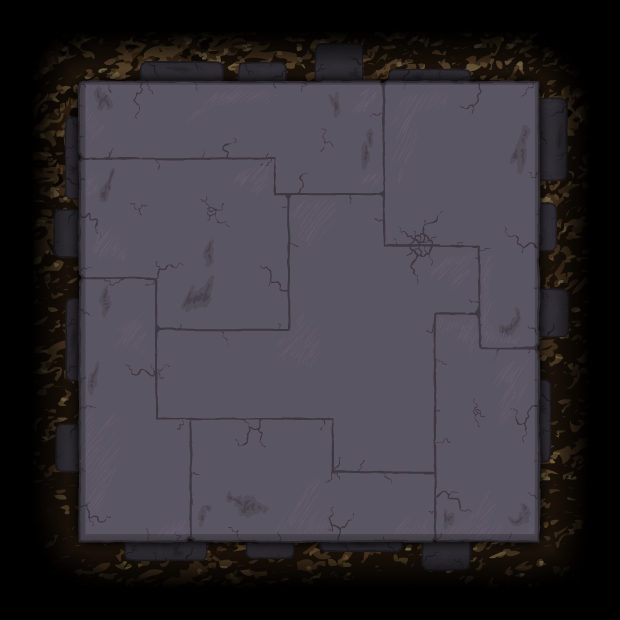
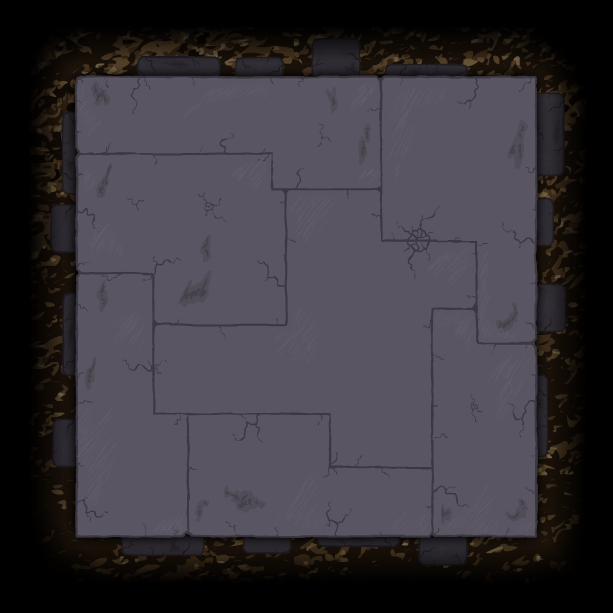
Added the background to the rooms.

diff --git a/application/PlayState.cpp b/application/PlayState.cpp
@@ -24,6 +24,7 @@ static const int HEIGHT = 900;
 static const int BRIDGE_OFFSET_FROM_SCREEN = 200;
 
 static const int ROOM_OFFSET_FROM_EDGE_OF_SCREEN = 0;
+static const int ROOM_BACKGROUND_OFFSET_FROM_EDGE_OF_SCREEN = -66;
 
 	PlayState::PlayState(const std::string &newName) : State(newName),
 	_nbPlayers(0), _usesGamepads(true) {
@@ -200,26 +201,47 @@ static const int ROOM_OFFSET_FROM_EDGE_OF_SCREEN = 0;
 				buttons[i]->connectBridges(bridges[BRIDGE_BOTTOM], bridges[BRIDGE_RIGHT]);
 			}
 		}
-    }
-	void PlayState::initRooms() {
-		//Adds the rooms.
-		
-		Sprite *room;
-		room = new Sprite("floor");
-		room->setPosition(camera.screenToWorld(Vector2(ROOM_OFFSET_FROM_EDGE_OF_SCREEN, ROOM_OFFSET_FROM_EDGE_OF_SCREEN)));
-		add(room);
-		rooms[0] = room;
-		room = new Sprite("floor");
-		room->setPosition(camera.screenToWorld(Vector2(WIDTH - ROOM_OFFSET_FROM_EDGE_OF_SCREEN, ROOM_OFFSET_FROM_EDGE_OF_SCREEN)) - Vector2(room->getWidth(),0));
-		add(room);
-		rooms[1] = room;
-		room = new Sprite("floor");
-		room->setPosition(camera.screenToWorld(Vector2(ROOM_OFFSET_FROM_EDGE_OF_SCREEN, HEIGHT - ROOM_OFFSET_FROM_EDGE_OF_SCREEN)) - Vector2(0,room->getHeight()));
-		add(room);
-		rooms[2] = room;
-		room = new Sprite("floor");
-		room->setPosition(camera.screenToWorld(Vector2(WIDTH - ROOM_OFFSET_FROM_EDGE_OF_SCREEN, HEIGHT - ROOM_OFFSET_FROM_EDGE_OF_SCREEN)) -Vector2(room->getWidth(), room->getHeight()));
-		add(room);
-		rooms[3] = room;
-	}
+}
+
+void PlayState::initRooms() {
+	//Adds the rooms.
+	Sprite *room;
+	room = new Sprite("floor");
+	room->setPosition(camera.screenToWorld(Vector2(ROOM_OFFSET_FROM_EDGE_OF_SCREEN, ROOM_OFFSET_FROM_EDGE_OF_SCREEN)));
+	add(room);
+	rooms[0] = room;
+	room = new Sprite("floor");
+	room->setPosition(camera.screenToWorld(Vector2(WIDTH - ROOM_OFFSET_FROM_EDGE_OF_SCREEN, ROOM_OFFSET_FROM_EDGE_OF_SCREEN)) - Vector2(room->getWidth(), 0));
+	add(room);
+	rooms[1] = room;
+	room = new Sprite("floor");
+	room->setPosition(camera.screenToWorld(Vector2(ROOM_OFFSET_FROM_EDGE_OF_SCREEN, HEIGHT - ROOM_OFFSET_FROM_EDGE_OF_SCREEN)) - Vector2(0, room->getHeight()));
+	add(room);
+	rooms[2] = room;
+	room = new Sprite("floor");
+	room->setPosition(camera.screenToWorld(Vector2(WIDTH - ROOM_OFFSET_FROM_EDGE_OF_SCREEN, HEIGHT - ROOM_OFFSET_FROM_EDGE_OF_SCREEN)) - Vector2(room->getWidth(), room->getHeight()));
+	add(room);
+	rooms[3] = room;
+
+	//Add the background to the rooms.
+	room = new Sprite("floor_V2(2)");
+	room->setZ(-150);
+	room->setPosition(camera.screenToWorld(Vector2(ROOM_BACKGROUND_OFFSET_FROM_EDGE_OF_SCREEN, ROOM_BACKGROUND_OFFSET_FROM_EDGE_OF_SCREEN)));
+	add(room);
+
+	room = new Sprite("floor_V2(2)");
+	room->setZ(-150);
+	room->setPosition(camera.screenToWorld(Vector2(WIDTH - ROOM_BACKGROUND_OFFSET_FROM_EDGE_OF_SCREEN, ROOM_BACKGROUND_OFFSET_FROM_EDGE_OF_SCREEN)) - Vector2(room->getWidth(), 0));
+	add(room);
+
+	room = new Sprite("floor_V2(2)");
+	room->setZ(-150);
+	room->setPosition(camera.screenToWorld(Vector2(ROOM_BACKGROUND_OFFSET_FROM_EDGE_OF_SCREEN, HEIGHT - ROOM_BACKGROUND_OFFSET_FROM_EDGE_OF_SCREEN)) - Vector2(0, room->getHeight()));
+	add(room);
+
+	room = new Sprite("floor_V2(2)");
+	room->setZ(-150);
+	room->setPosition(camera.screenToWorld(Vector2(WIDTH - ROOM_BACKGROUND_OFFSET_FROM_EDGE_OF_SCREEN, HEIGHT - ROOM_BACKGROUND_OFFSET_FROM_EDGE_OF_SCREEN)) - Vector2(room->getWidth(), room->getHeight()));
+	add(room);
+}
 }

diff --git a/application/main.cpp b/application/main.cpp
@@ -14,6 +14,7 @@ void initResources() {
 	TEX("pedantic_smoke_1");
 	
 	TEX("floor");
+	TEX("floor_V2(2)")
     TEX("player");
     TEX("hook");
     TEX("ring");
